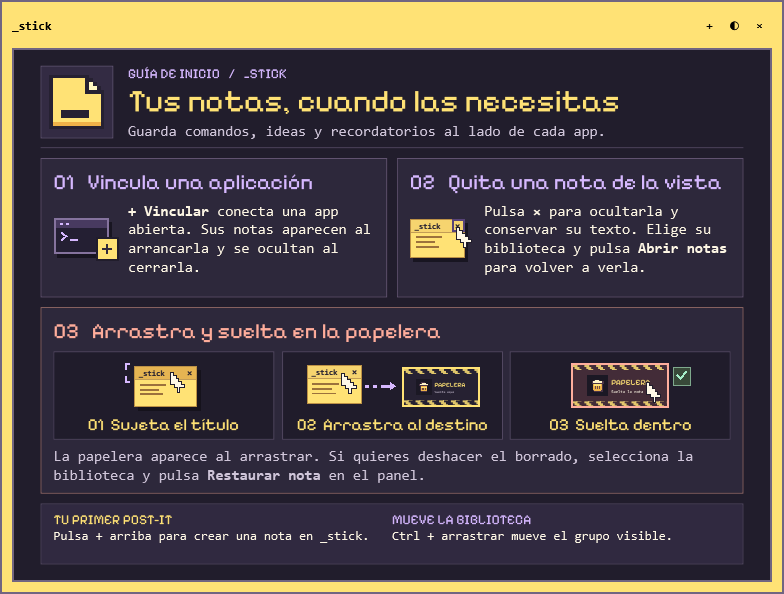
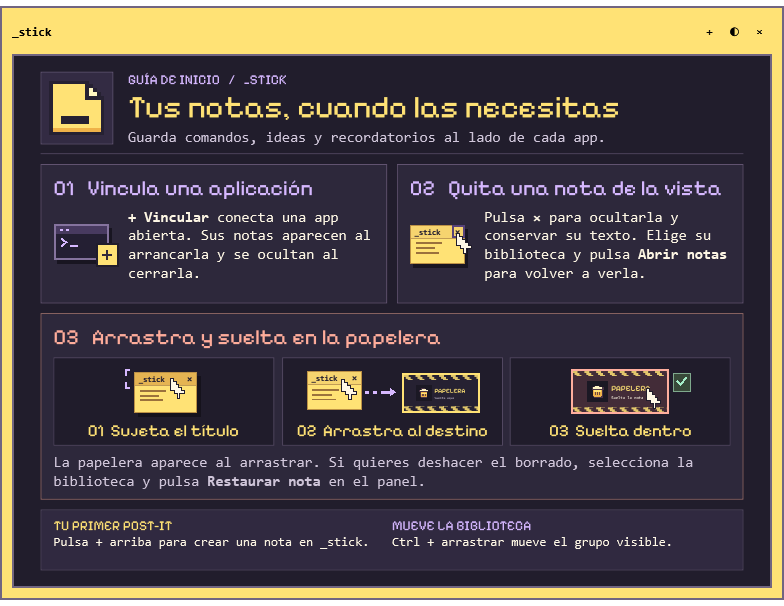
README 1.0

diff --git a/README.md b/README.md
@@ -158,7 +158,7 @@ Los datos se guardan por usuario en `%LOCALAPPDATA%\_stick`. `notes.json` contie
 
 La [guía técnica](guia/guia-tecnica.md) explica cómo se conectan las ventanas, la detección de aplicaciones, la edición Markdown y el guardado. Cada apartado enlaza a los archivos del código que describe.
 
-## _stick en uso
+## En uso
 
 Una nota de la biblioteca de Visual Studio Code muestra una tabla de atajos junto al editor. El contenido de esta captura parte de las [notas de ejemplo](ejemplos_notas/).
 
